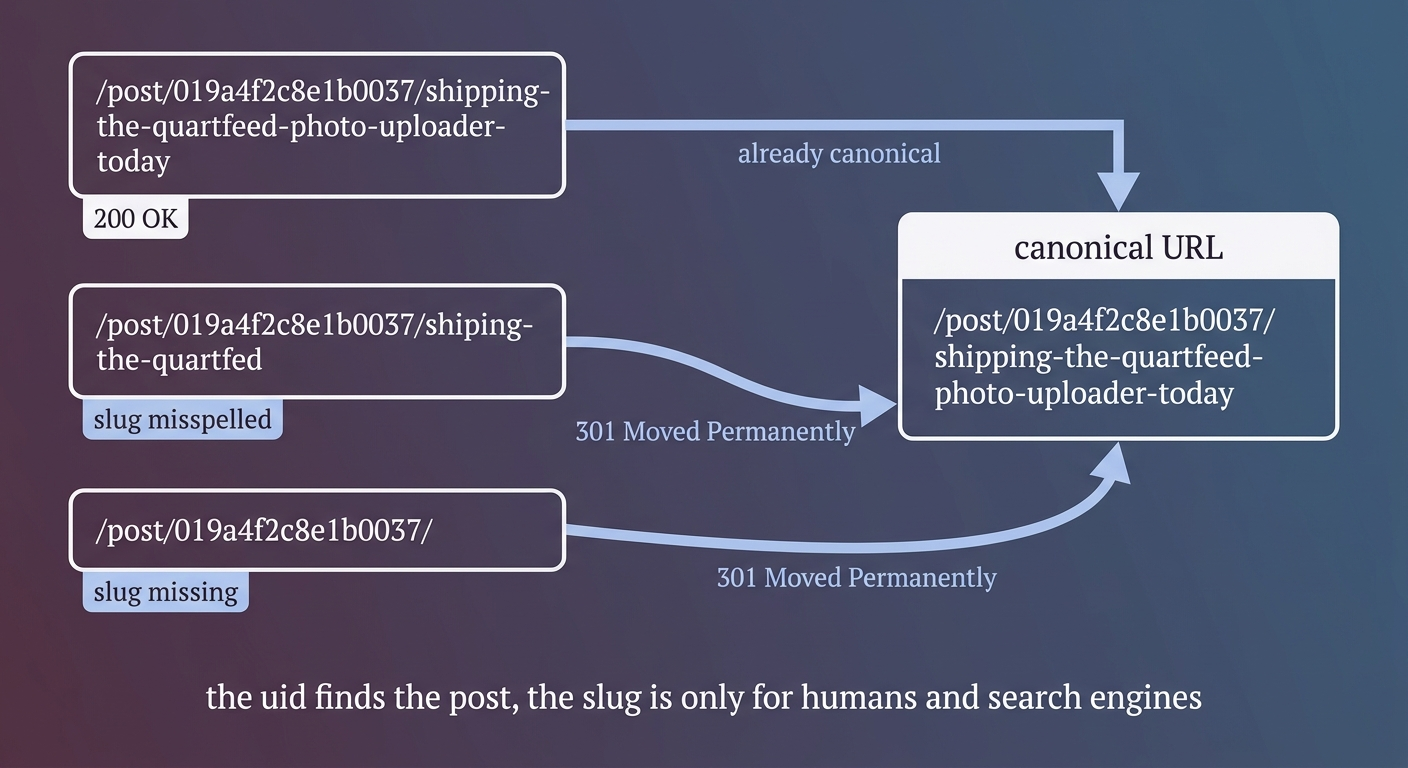
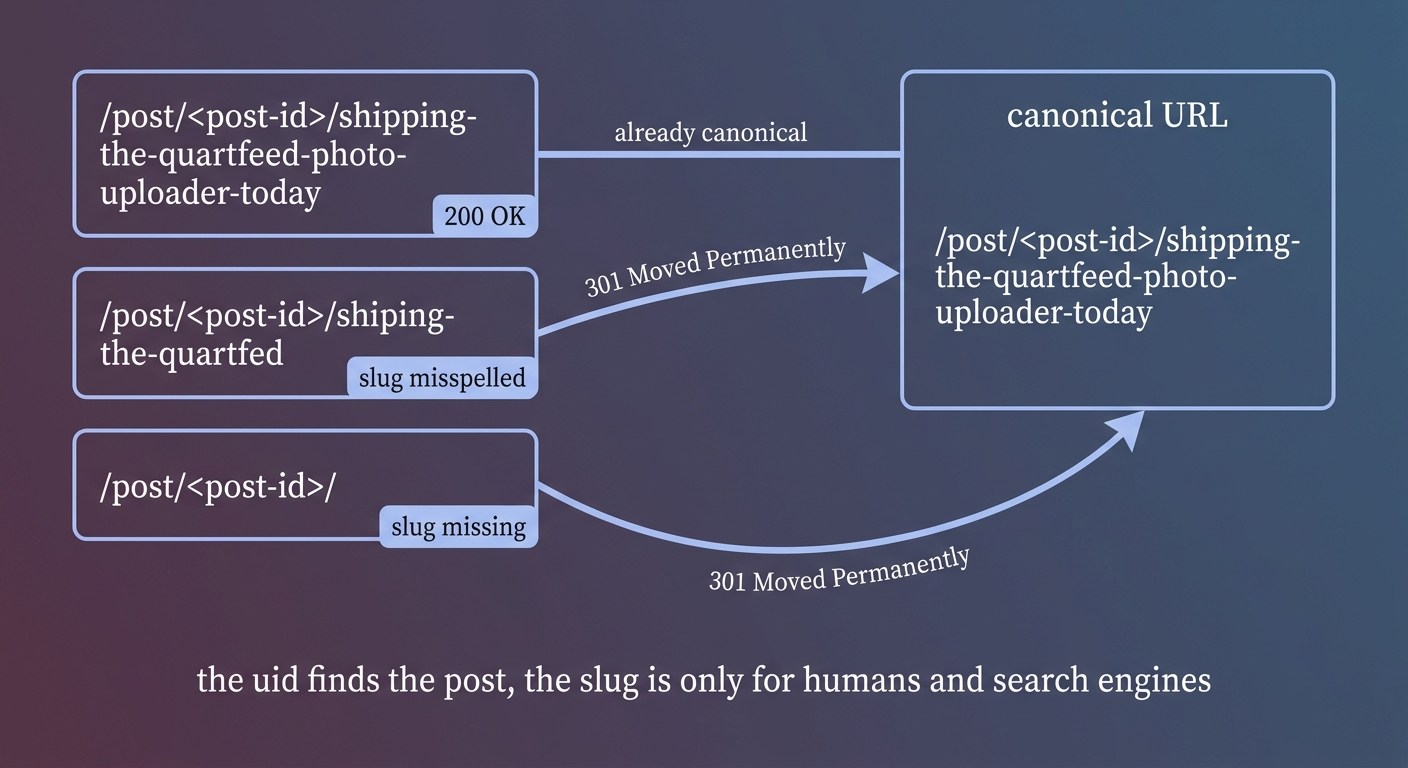
Sync manuscript from main

Changed region(s): [[0.0312, 0.0625, 0.9688, 0.8125], [0.125, 0.875, 0.875, 0.9375], [0.6562, 0.0625, 0.9375, 0.0938]]

diff --git a/manuscript/5_QuartFeed_PostgreSQL_DB_FriendFeed_Clone.md b/manuscript/5_QuartFeed_PostgreSQL_DB_FriendFeed_Clone.md
@@ -2263,7 +2263,7 @@ Write a post, attach a photo.
 
 It shows up on your home page with its image scaled to a tidy height, and clicking a timestamp takes you to that post's permalink.
 
-Notice the slug sitting after the post id: misspell it, or drop it entirely, and the app answers with a 301 straight back to this canonical URL, which is exactly what we designed for.
+Look at the slug sitting after the post id. A misspelled slug, or no slug at all, still gets a 301 straight back to this canonical URL, which is exactly what we designed for.
 
 We have content. Now let's make it flow between users.
 
